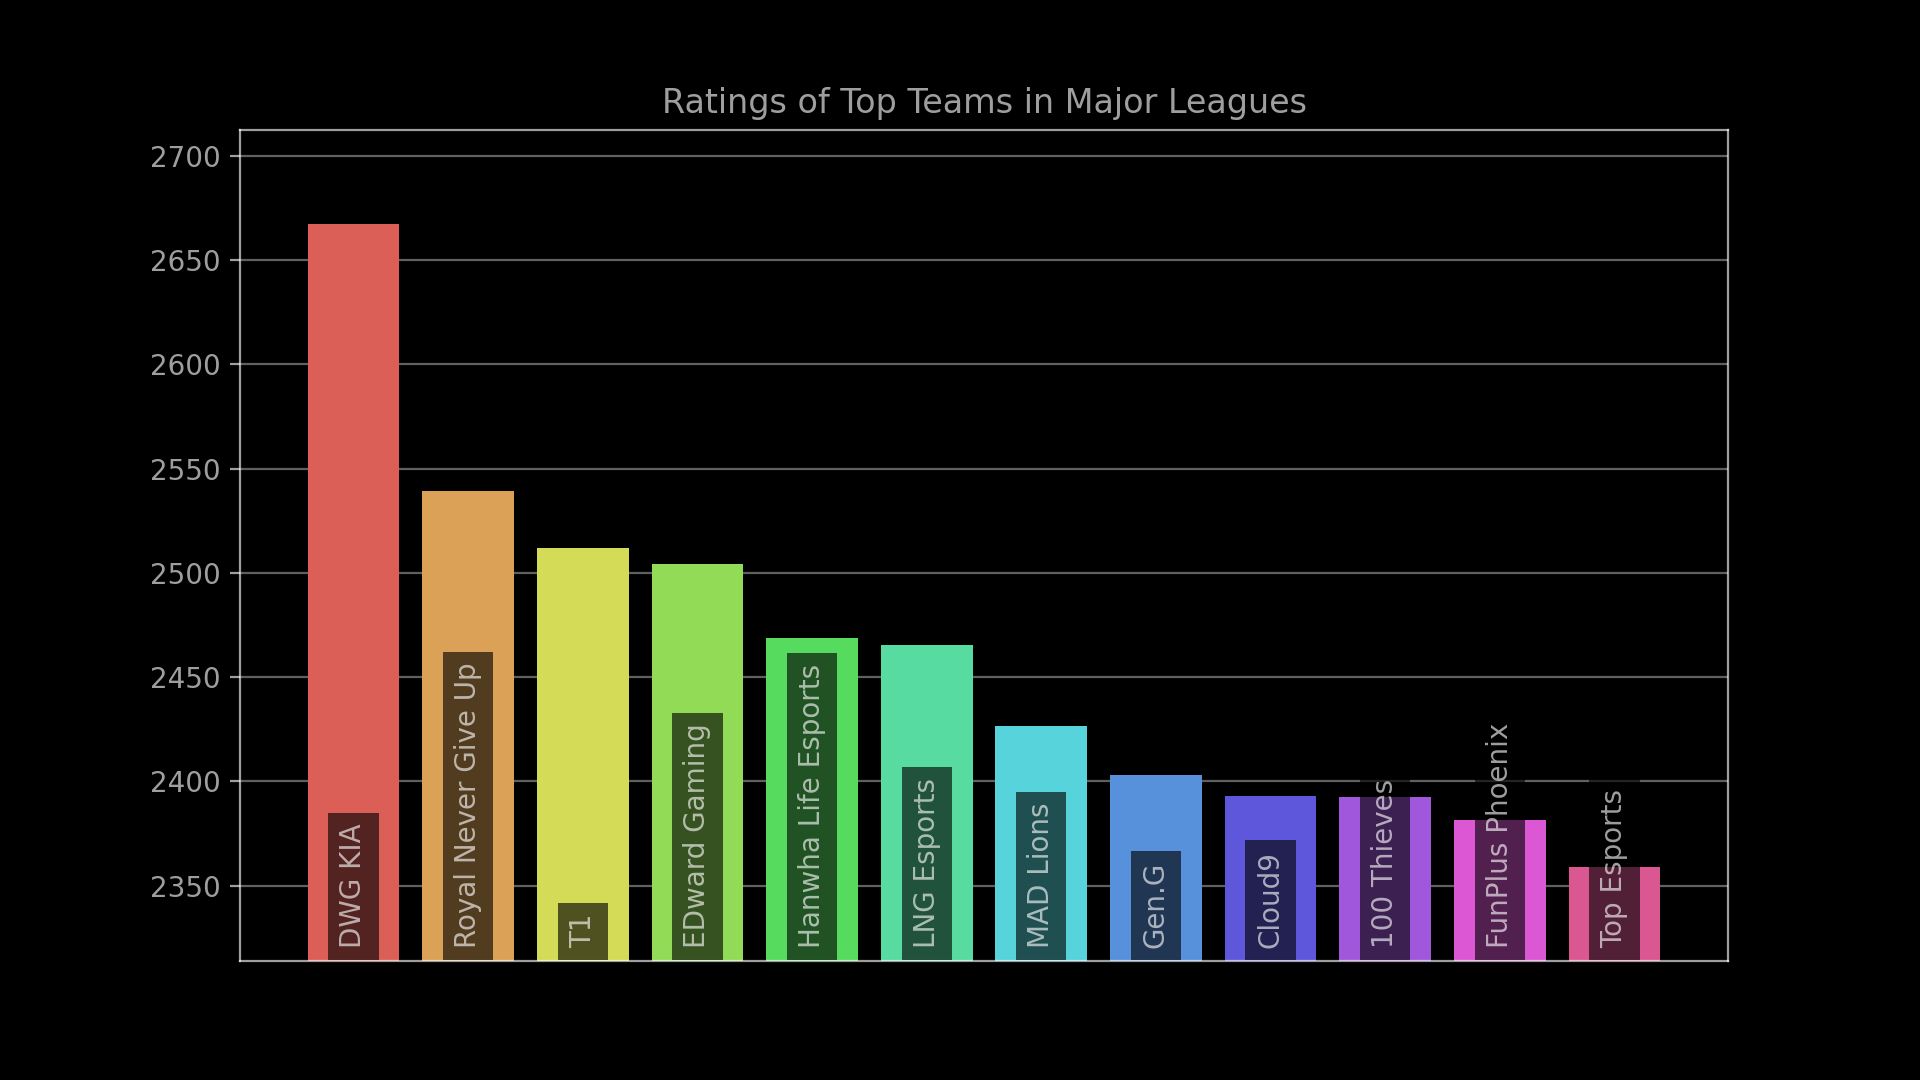
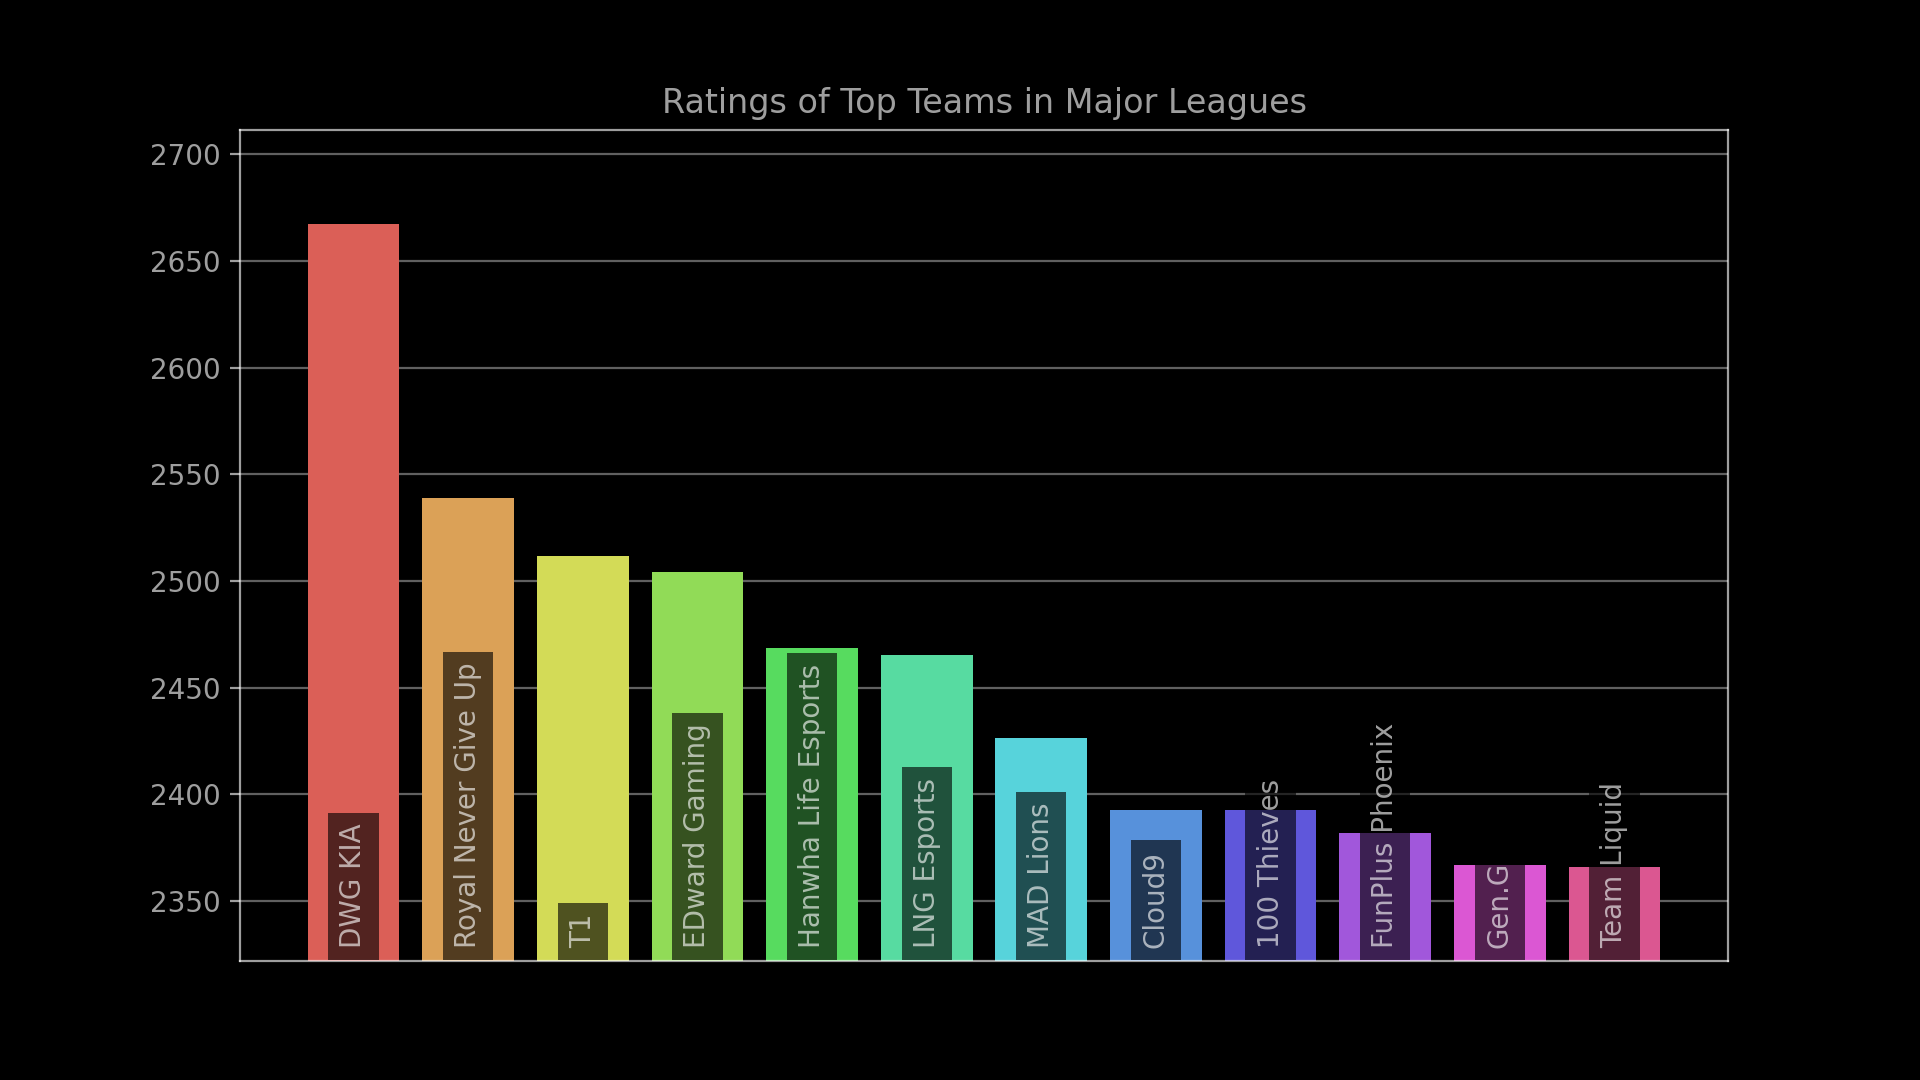
Update rating charts for 2021-10-18 17:00:00.

diff --git a/index.html b/index.html
@@ -83,16 +83,16 @@
             <tr><td style="text-align: right">5</td><td class="name">Hanwha Life Esports</td><td class="league" style="text-align: center">LCK</td><td class="rating" style="text-align: center">2468.6</td><td class="diff" style="text-align: center; white-space: nowrap"><span style="color: #4CAF50">&plus;30.3</span></td></tr>
             <tr><td style="text-align: right">6</td><td class="name">LNG Esports</td><td class="league" style="text-align: center">LPL</td><td class="rating" style="text-align: center">2465.3</td><td class="diff" style="text-align: center; white-space: nowrap"><span style="color: #4CAF50">&plus;21.8</span></td></tr>
             <tr><td style="text-align: right">7</td><td class="name">PSG Talon</td><td class="league" style="text-align: center">PCS</td><td class="rating" style="text-align: center">2461.9</td><td class="diff" style="text-align: center; white-space: nowrap"><span style="color: #F44336">&minus;18.7</span></td></tr>
-            <tr><td style="text-align: right">8</td><td class="name">MAD Lions</td><td class="league" style="text-align: center">LEC</td><td class="rating" style="text-align: center">2426.6</td><td class="diff" style="text-align: center; white-space: nowrap"><span style="color: #F44336">&minus;46.9</span></td></tr>
-            <tr><td style="text-align: right">9</td><td class="name">Gen.G</td><td class="league" style="text-align: center">LCK</td><td class="rating" style="text-align: center">2403.0</td><td class="diff" style="text-align: center; white-space: nowrap"><span style="color: #4CAF50">&plus;28.1</span></td></tr>
-            <tr><td style="text-align: right">10</td><td class="name">Cloud9</td><td class="league" style="text-align: center">LCS</td><td class="rating" style="text-align: center">2392.9</td><td class="diff" style="text-align: center; white-space: nowrap"><span style="color: #4CAF50">&plus;26.2</span></td></tr>
-            <tr><td style="text-align: right">11</td><td class="name">100 Thieves</td><td class="league" style="text-align: center">LCS</td><td class="rating" style="text-align: center">2392.5</td><td class="diff" style="text-align: center; white-space: nowrap"><span style="color: #4CAF50">&plus;31.1</span></td></tr>
-            <tr><td style="text-align: right">12</td><td class="name">FunPlus Phoenix</td><td class="league" style="text-align: center">LPL</td><td class="rating" style="text-align: center">2381.7</td><td class="diff" style="text-align: center; white-space: nowrap"><span style="color: #F44336">&minus;125.8</span></td></tr>
-            <tr><td style="text-align: right">13</td><td class="name">Top Esports</td><td class="league" style="text-align: center">LPL</td><td class="rating" style="text-align: center">2358.8</td><td class="diff" style="text-align: center; white-space: nowrap"></td></tr>
-            <tr><td style="text-align: right">14</td><td class="name">Suning</td><td class="league" style="text-align: center">LPL</td><td class="rating" style="text-align: center">2354.8</td><td class="diff" style="text-align: center; white-space: nowrap"></td></tr>
-            <tr><td style="text-align: right">15</td><td class="name">Team WE</td><td class="league" style="text-align: center">LPL</td><td class="rating" style="text-align: center">2340.1</td><td class="diff" style="text-align: center; white-space: nowrap"></td></tr>
-            <tr><td style="text-align: right">16</td><td class="name">Rogue </td><td class="league" style="text-align: center">LEC</td><td class="rating" style="text-align: center">2330.7</td><td class="diff" style="text-align: center; white-space: nowrap"><span style="color: #4CAF50">&plus;6.5</span></td></tr>
-            <tr><td style="text-align: right">17</td><td class="name">Team Liquid</td><td class="league" style="text-align: center">LCS</td><td class="rating" style="text-align: center">2328.3</td><td class="diff" style="text-align: center; white-space: nowrap"><span style="color: #F44336">&minus;12.7</span></td></tr>
+            <tr><td style="text-align: right">8</td><td class="name">MAD Lions</td><td class="league" style="text-align: center">LEC</td><td class="rating" style="text-align: center">2426.6</td><td class="diff" style="text-align: center; white-space: nowrap"><span style="color: #F44336">&minus;35.3</span></td></tr>
+            <tr><td style="text-align: right">9</td><td class="name">Cloud9</td><td class="league" style="text-align: center">LCS</td><td class="rating" style="text-align: center">2392.9</td><td class="diff" style="text-align: center; white-space: nowrap"><span style="color: #4CAF50">&plus;26.2</span></td></tr>
+            <tr><td style="text-align: right">10</td><td class="name">100 Thieves</td><td class="league" style="text-align: center">LCS</td><td class="rating" style="text-align: center">2392.5</td><td class="diff" style="text-align: center; white-space: nowrap"><span style="color: #4CAF50">&plus;31.1</span></td></tr>
+            <tr><td style="text-align: right">11</td><td class="name">FunPlus Phoenix</td><td class="league" style="text-align: center">LPL</td><td class="rating" style="text-align: center">2381.7</td><td class="diff" style="text-align: center; white-space: nowrap"><span style="color: #F44336">&minus;125.8</span></td></tr>
+            <tr><td style="text-align: right">12</td><td class="name">Gen.G</td><td class="league" style="text-align: center">LCK</td><td class="rating" style="text-align: center">2367.0</td><td class="diff" style="text-align: center; white-space: nowrap"><span style="color: #F44336">&minus;7.9</span></td></tr>
+            <tr><td style="text-align: right">13</td><td class="name">Team Liquid</td><td class="league" style="text-align: center">LCS</td><td class="rating" style="text-align: center">2365.9</td><td class="diff" style="text-align: center; white-space: nowrap"><span style="color: #4CAF50">&plus;12.1</span></td></tr>
+            <tr><td style="text-align: right">14</td><td class="name">Top Esports</td><td class="league" style="text-align: center">LPL</td><td class="rating" style="text-align: center">2358.8</td><td class="diff" style="text-align: center; white-space: nowrap"></td></tr>
+            <tr><td style="text-align: right">15</td><td class="name">Suning</td><td class="league" style="text-align: center">LPL</td><td class="rating" style="text-align: center">2354.8</td><td class="diff" style="text-align: center; white-space: nowrap"></td></tr>
+            <tr><td style="text-align: right">16</td><td class="name">Team WE</td><td class="league" style="text-align: center">LPL</td><td class="rating" style="text-align: center">2340.1</td><td class="diff" style="text-align: center; white-space: nowrap"></td></tr>
+            <tr><td style="text-align: right">17</td><td class="name">Rogue </td><td class="league" style="text-align: center">LEC</td><td class="rating" style="text-align: center">2330.7</td><td class="diff" style="text-align: center; white-space: nowrap"><span style="color: #4CAF50">&plus;6.5</span></td></tr>
             <tr><td style="text-align: right">18</td><td class="name">Bilibili Gaming</td><td class="league" style="text-align: center">LPL</td><td class="rating" style="text-align: center">2318.9</td><td class="diff" style="text-align: center; white-space: nowrap"></td></tr>
             <tr><td style="text-align: right">19</td><td class="name">G2 Esports</td><td class="league" style="text-align: center">LEC</td><td class="rating" style="text-align: center">2313.3</td><td class="diff" style="text-align: center; white-space: nowrap"></td></tr>
             <tr><td style="text-align: right">20</td><td class="name">Rare Atom</td><td class="league" style="text-align: center">LPL</td><td class="rating" style="text-align: center">2313.0</td><td class="diff" style="text-align: center; white-space: nowrap"></td></tr>

diff --git a/assets/js/chart-config.js b/assets/js/chart-config.js
@@ -3,10 +3,10 @@ const MONTH_ABBREVIATIONS = ["Jan", "Feb", "Mar", "Apr", "May", "Jun", "Jul", "A
 const topChartConfig = {
     type: "bar",
     data: {
-        labels: ['DWG KIA', 'Royal Never Give Up', 'T1', 'EDward Gaming', 'Hanwha Life Esports', 'LNG Esports', 'MAD Lions', 'Gen.G', 'Cloud9', '100 Thieves', 'FunPlus Phoenix', 'Top Esports'],
+        labels: ['DWG KIA', 'Royal Never Give Up', 'T1', 'EDward Gaming', 'Hanwha Life Esports', 'LNG Esports', 'MAD Lions', 'Cloud9', '100 Thieves', 'FunPlus Phoenix', 'Gen.G', 'Team Liquid'],
         datasets: [{
             backgroundColor: ['#dc5f57', '#dca157', '#d4dc57', '#91dc57', '#57dc5f', '#57dca1', '#57d4dc', '#5791dc', '#5f57dc', '#a157dc', '#dc57d4', '#dc5791'],
-            data: [2667.475752135994, 2539.102646002875, 2511.6879446870657, 2504.142926627319, 2468.5615321778664, 2465.3391044649884, 2426.6319183286223, 2402.9789453532107, 2392.8668374178997, 2392.5403855259237, 2381.7010883286844, 2358.8275642289427],
+            data: [2667.475752135994, 2539.102646002875, 2511.6879446870657, 2504.142926627319, 2468.5615321778664, 2465.3391044649884, 2426.6319183286223, 2392.8668374178997, 2392.5403855259237, 2381.7010883286844, 2367.0065099949097, 2365.888617741415],
             label: "Rating Points"
         }]
     },
@@ -34,8 +34,8 @@ const topChartConfig = {
                 }
             },
             y: {
-                max: 2713,
-                min: 2314
+                max: 2712,
+                min: 2322
             }
         }
     }

diff --git a/README.md b/README.md
@@ -52,15 +52,15 @@ confidence interval of the rating.
 | 5 | Hanwha Life Esports | 2468.6 | 61.2 |
 | 6 | LNG Esports | 2465.3 | 70.0 |
 | 7 | MAD Lions | 2426.6 | 80.1 |
-| 8 | Gen.G | 2403.0 | 79.0 |
-| 9 | Cloud9 | 2392.9 | 60.3 |
-| 10 | 100 Thieves | 2392.5 | 74.4 |
-| 11 | FunPlus Phoenix | 2381.7 | 72.5 |
-| 12 | Top Esports | 2358.8 | 71.2 |
-| 13 | Suning | 2354.8 | 69.8 |
-| 14 | Team WE | 2340.1 | 61.8 |
-| 15 | Rogue (European Team) | 2330.7 | 73.6 |
-| 16 | Team Liquid | 2328.3 | 79.0 |
+| 8 | Cloud9 | 2392.9 | 60.3 |
+| 9 | 100 Thieves | 2392.5 | 74.4 |
+| 10 | FunPlus Phoenix | 2381.7 | 72.5 |
+| 11 | Gen.G | 2367.0 | 75.5 |
+| 12 | Team Liquid | 2365.9 | 75.5 |
+| 13 | Top Esports | 2358.8 | 71.2 |
+| 14 | Suning | 2354.8 | 69.8 |
+| 15 | Team WE | 2340.1 | 61.8 |
+| 16 | Rogue (European Team) | 2330.7 | 73.6 |
 | 17 | Bilibili Gaming | 2318.9 | 73.6 |
 | 18 | G2 Esports | 2313.3 | 79.1 |
 | 19 | Rare Atom | 2313.0 | 77.3 |
